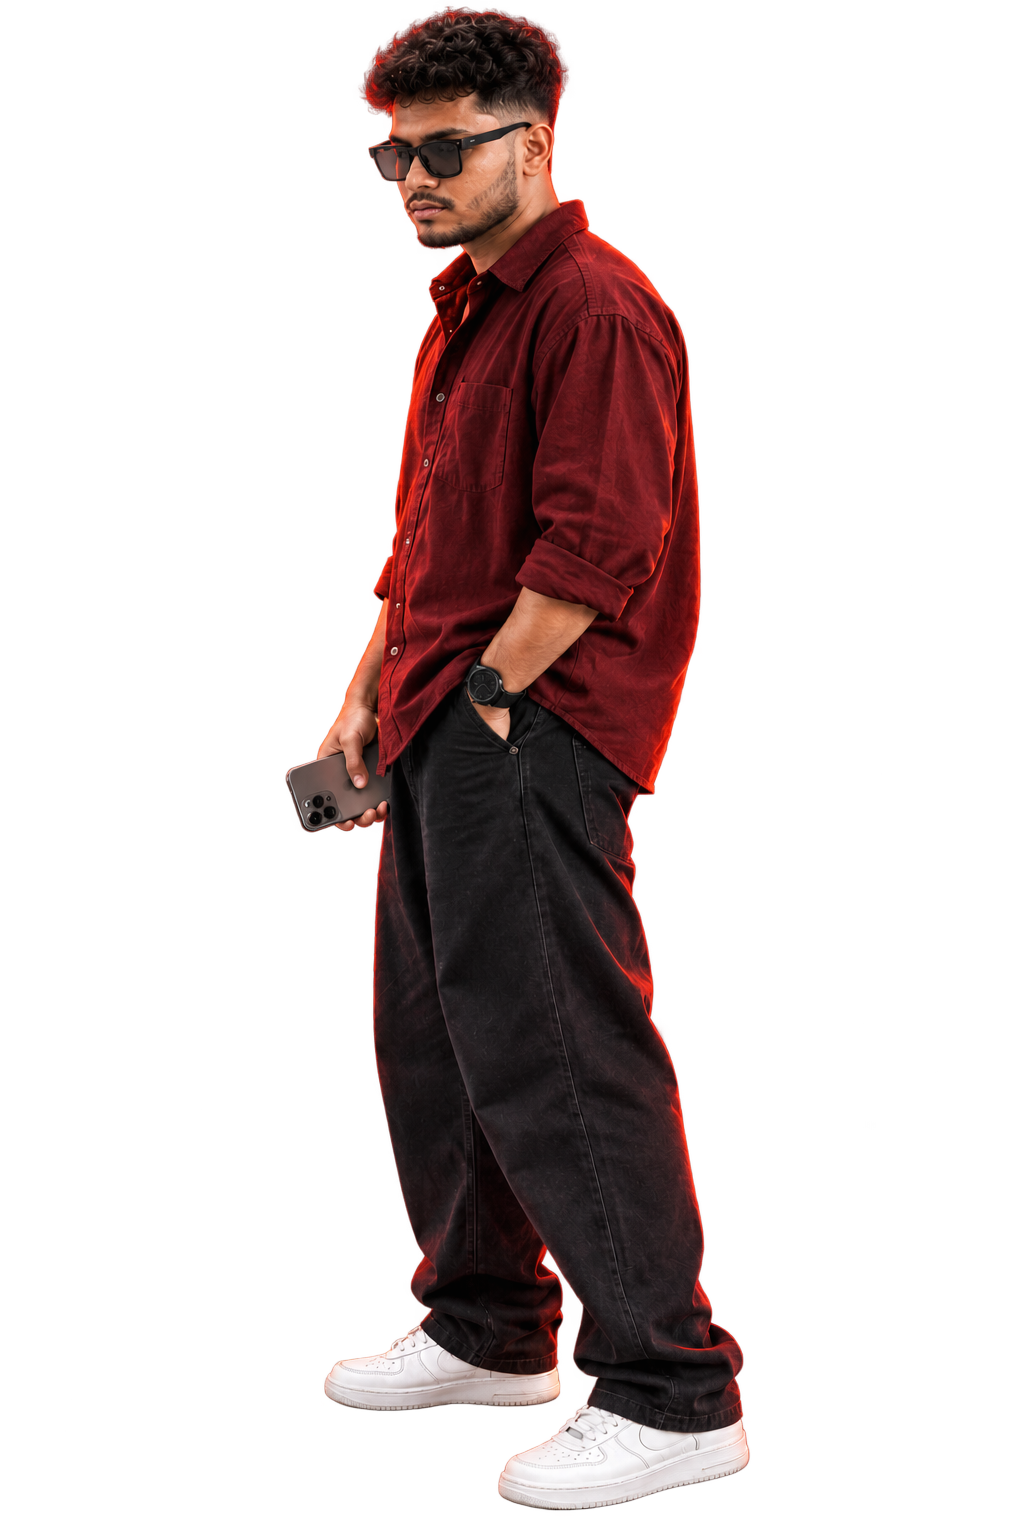
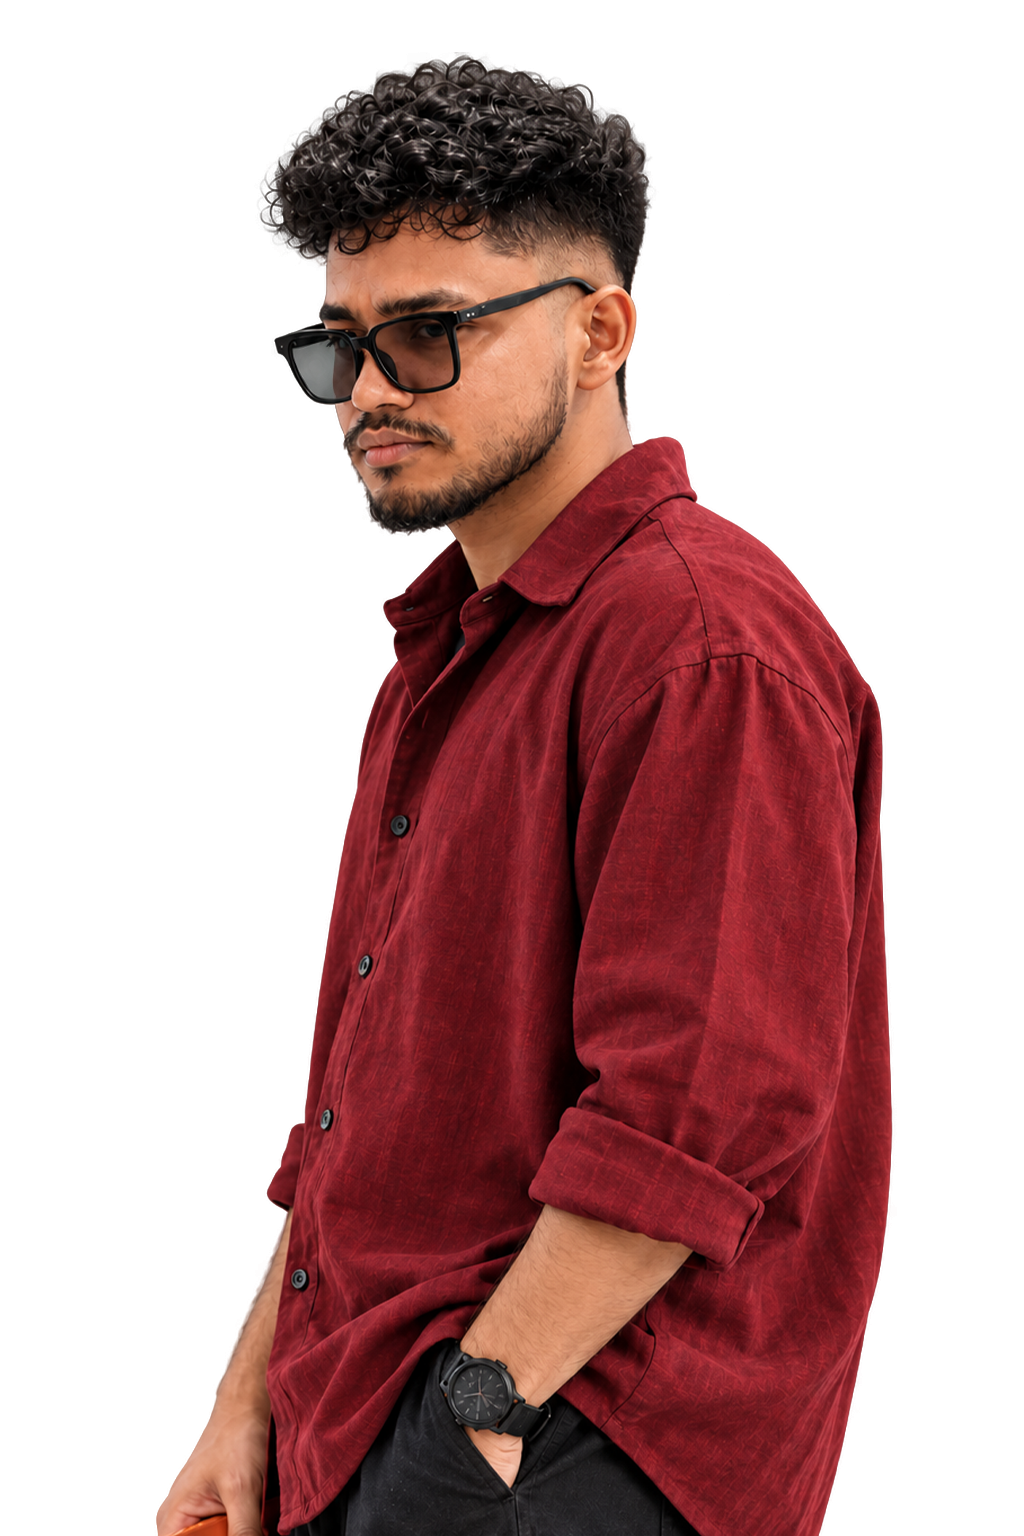
Add files via upload

diff --git a/about.html b/about.html
@@ -2,184 +2,183 @@
 <html lang="en">
 <head>
 <meta charset="utf-8">
-<meta name="viewport" content="width=device-width, initial-scale=1">
+<meta name="viewport" content="width=device-width,initial-scale=1">
 <title>About — Subhajit</title>
-<meta name="description" content="About Subhajit Das — graphic designer and motion designer.">
-<link rel="preconnect" href="https://fonts.googleapis.com">
-<link rel="preconnect" href="https://fonts.gstatic.com" crossorigin>
-<link href="https://fonts.googleapis.com/css2?family=DM+Sans:wght@400;500;600;700;800&family=Space+Grotesk:wght@400;500;600;700&display=swap" rel="stylesheet">
 <style>
-:root{--red:#e20b0b;--red2:#ff2a1a;--white:#fff;--muted:#d4d0d0}
 *{box-sizing:border-box}
-html,body{margin:0;width:100%;min-height:100%;background:#050505;color:#fff;font-family:"DM Sans",Arial,sans-serif}
-body{overflow-x:hidden}
-.about-page{
-  min-height:100svh;
-  width:100%;
+html,body{margin:0;width:100%;height:100%;overflow:hidden}
+body{
+  background:#030303;
+  color:#fff;
+  font-family:Arial,Helvetica,sans-serif;
+}
+.about{
   position:relative;
-  isolation:isolate;
+  width:100vw;
+  height:100vh;
+  min-height:650px;
   overflow:hidden;
-  background:#050505 url("about-background.png") center center/cover no-repeat;
+  background:#030303 url("about-background.png") center center/cover no-repeat;
 }
-.about-page:before{
-  content:"";position:absolute;inset:0;z-index:-1;
-  background:linear-gradient(90deg,rgba(0,0,0,.84) 0%,rgba(0,0,0,.66) 34%,rgba(0,0,0,.22) 60%,rgba(0,0,0,.04) 100%);
+.about:after{
+  content:"";
+  position:absolute;
+  inset:0;
+  pointer-events:none;
+  background:linear-gradient(90deg,rgba(0,0,0,.10) 0%,rgba(0,0,0,.05) 43%,rgba(0,0,0,.10) 100%);
 }
-.about-page:after{
-  content:"";position:absolute;inset:0;z-index:-1;pointer-events:none;
-  background:radial-gradient(circle at 30% 55%,rgba(226,11,11,.18),transparent 34%),
-             linear-gradient(180deg,rgba(0,0,0,.25),transparent 35%,rgba(0,0,0,.35));
-}
-.topbar{
-  position:absolute;top:0;left:0;right:0;height:88px;padding:0 5vw;
-  display:flex;align-items:center;justify-content:space-between;z-index:10;
-  border-bottom:1px solid rgba(255,255,255,.09);
-  background:linear-gradient(180deg,rgba(0,0,0,.46),transparent);
-}
-.brand{font-size:18px;font-weight:800;letter-spacing:.1em}.brand span{color:var(--red)}
-nav{display:flex;gap:30px;align-items:center}
-nav a{color:#fff;text-decoration:none;font-size:13px;font-weight:700;transition:.22s}
-nav a:hover,nav a.active{color:#ff4135;transform:translateY(-2px)}
-.talk{border:1px solid rgba(255,255,255,.6);border-radius:999px;padding:11px 17px;color:#fff;text-decoration:none;font-size:13px;font-weight:700}
-.talk span{color:#ff4135;margin-left:5px}
 .content{
-  min-height:100svh;width:min(1440px,100%);margin:auto;
-  display:grid;grid-template-columns:minmax(390px, .88fr) minmax(470px,1.12fr);
-  align-items:center;position:relative;padding:100px 5vw 50px;
+  position:relative;
+  z-index:3;
+  width:52%;
+  height:100%;
+  margin-left:48%;
+  padding:9vh 6vw 8vh 3vw;
+  display:flex;
+  flex-direction:column;
+  justify-content:center;
 }
-.copy{
-  position:relative;z-index:4;max-width:650px;
-  padding:25px 0 30px;
+.eyebrow{
+  color:#ef3b2d;
+  font-size:clamp(14px,1.2vw,21px);
+  font-weight:800;
+  letter-spacing:.13em;
+  margin:0 0 2.4vh;
+  text-transform:uppercase;
 }
-.eyebrow{margin:0 0 15px;color:#ff3b2e;font-size:13px;font-weight:800;letter-spacing:.22em}
-h1{font-family:"Space Grotesk",sans-serif;font-size:clamp(58px,7vw,110px);line-height:.86;letter-spacing:-.065em;margin:0 0 14px;font-weight:700}
-h1 .accent{color:var(--red)}
-.subhead{font-size:clamp(18px,2vw,27px);line-height:1.2;font-weight:700;margin:0 0 26px;color:#f5f3f3}
-.typed-area{min-height:285px;max-width:630px}
-.typed-line{font-size:17px;line-height:1.62;color:#eee;min-height:1.62em;margin:0 0 9px}
-.typed-line strong{color:#fff;font-weight:800}
-.cursor{display:inline-block;width:2px;height:1em;background:#ff2a1a;margin-left:3px;vertical-align:-.12em;animation:blink .7s step-end infinite}
+h1{
+  margin:0 0 1.2vh;
+  font-size:clamp(54px,6.2vw,105px);
+  line-height:.92;
+  letter-spacing:-.045em;
+  color:#fff;
+  font-weight:900;
+  text-shadow:0 4px 25px rgba(0,0,0,.45);
+}
+.subtitle{
+  margin:0 0 3vh;
+  color:#ef3b2d;
+  font-size:clamp(21px,2vw,34px);
+  line-height:1.1;
+  font-weight:800;
+}
+.typebox{
+  max-width:820px;
+  font-size:clamp(17px,1.42vw,24px);
+  line-height:1.55;
+  color:#f3f3f3;
+  text-shadow:0 2px 13px rgba(0,0,0,.9);
+}
+.type-line{margin:0 0 1.2vh;min-height:1.55em}
+.type-line strong{color:#fff;font-weight:800}
+.caret{
+  display:inline-block;
+  width:.08em;
+  height:1em;
+  margin-left:3px;
+  background:#ef3b2d;
+  vertical-align:-.12em;
+  animation:blink .7s step-end infinite;
+}
 @keyframes blink{50%{opacity:0}}
-.stats{display:flex;gap:18px;flex-wrap:wrap;margin-top:20px}
-.stat{border-left:2px solid var(--red);padding:8px 18px 8px 13px;background:rgba(0,0,0,.27);backdrop-filter:blur(5px)}
-.stat b{display:block;font-size:22px}.stat span{font-size:10px;letter-spacing:.1em;color:#bbb}
-.photo-side{
-  position:relative;height:min(86vh,850px);align-self:end;z-index:3;
-  display:flex;justify-content:flex-end;align-items:flex-end;
+.badge{
+  margin-top:3vh;
+  display:inline-flex;
+  align-items:center;
+  gap:20px;
+  width:max-content;
+  max-width:90%;
+  padding:16px 28px;
+  border:1px solid rgba(239,59,45,.65);
+  border-radius:999px;
+  background:rgba(0,0,0,.48);
+  backdrop-filter:blur(5px);
+  box-shadow:0 0 30px rgba(220,25,15,.16);
+  font-size:clamp(18px,1.55vw,27px);
 }
+.badge .number{color:#ef3b2d;font-weight:900}
 .photo{
-  height:100%;max-height:900px;width:auto;max-width:100%;
-  object-fit:contain;object-position:center bottom;
-  filter:drop-shadow(0 0 25px rgba(255,0,0,.2));
-  transform:translate3d(0,0,0);
-  animation:floatPhoto 5.5s ease-in-out infinite;
+  position:absolute;
+  z-index:4;
+  left:0;
+  right:auto;
+  bottom:-7vh;
+  width:min(55vw,900px);
+  height:108vh;
+  object-fit:contain;
+  object-position:center bottom;
+  filter:drop-shadow(-14px 15px 26px rgba(0,0,0,.72));
+  transform-origin:center bottom;
+  animation:arrive 1.1s cubic-bezier(.2,.8,.2,1) both;
 }
-@keyframes floatPhoto{0%,100%{transform:translateY(0)}50%{transform:translateY(-9px)}}
-.photo-glow{
-  position:absolute;width:52%;height:24%;right:13%;bottom:5%;
-  background:rgba(255,0,0,.24);filter:blur(55px);border-radius:50%;z-index:-1;
+@keyframes arrive{
+  from{opacity:0;transform:translateX(80px) scale(.88)}
+  to{opacity:1;transform:translateX(0) scale(1)}
 }
-.corner{position:absolute;bottom:30px;left:5vw;font-size:10px;letter-spacing:.16em;color:#a9a4a4;z-index:5}
-.scroll{position:absolute;right:5vw;bottom:30px;color:#aaa;font-size:10px;letter-spacing:.14em;z-index:5}
-@media(max-width:980px){
-  .content{grid-template-columns:1fr;min-height:auto;padding:120px 7vw 0}
-  .copy{max-width:720px;padding-top:20px}
-  .photo-side{height:620px;margin-top:-20px;justify-content:center}
-  .photo{max-height:650px}
-  .corner{left:7vw}.scroll{right:7vw}
-  .topbar{padding:0 7vw}
-  nav{gap:18px}
+.back{
+  position:absolute;
+  z-index:6;
+  left:7vw;
+  bottom:4vh;
+  color:#fff;
+  text-decoration:none;
+  font-size:14px;
+  font-weight:700;
+  padding:10px 15px;
+  border:1px solid rgba(255,255,255,.35);
+  border-radius:999px;
+  background:rgba(0,0,0,.3);
+  backdrop-filter:blur(5px);
+  transition:.25s;
 }
-@media(max-width:650px){
-  .topbar{height:74px;padding:0 20px}.brand{font-size:15px}
-  nav{display:none}.talk{padding:9px 13px}
-  .content{padding:100px 20px 0}
-  h1{font-size:58px}.subhead{font-size:18px}.typed-line{font-size:15px}
-  .typed-area{min-height:330px}.stats{gap:9px}.stat{padding-right:12px}
-  .photo-side{height:520px;margin-top:5px}
-  .photo{height:100%;max-width:110vw}
-  .corner,.scroll{display:none}
+.back:hover{transform:translateX(-3px);border-color:#ef3b2d;color:#ef3b2d}
+
+@media(max-width:900px){
+  html,body{overflow:auto}
+  .about{height:auto;min-height:100vh;padding-bottom:40px;background-position:center}
+  .content{width:100%;height:auto;min-height:72vh;padding:9vh 7vw 0;justify-content:flex-start;background:linear-gradient(180deg,rgba(0,0,0,.55),rgba(0,0,0,.12))}
+  h1{font-size:clamp(50px,12vw,82px)}
+  .typebox{font-size:17px;max-width:720px}
+  .content{margin-left:0;width:100%}
+  .photo{position:relative;left:auto;right:auto;bottom:auto;display:block;margin:-2vh auto 0;width:min(86vw,610px);height:auto;max-height:75vh;object-fit:contain}
+  .back{position:relative;left:auto;bottom:auto;display:inline-block;margin:20px 7vw 0}
 }
 </style>
 </head>
 <body>
-<div class="about-page">
-  <header class="topbar">
-    <a class="brand" href="index.html">SUBHAJIT<span>•</span></a>
-    <nav aria-label="Main navigation">
-      <a class="active" href="about.html">About</a>
-      <a href="what-i-do.html">What I Do</a>
-      <a href="index.html#resume">Resume</a>
-      <a href="index.html#work">Work</a>
-    </nav>
-    <a class="talk" href="index.html#contact">Let's talk <span>↗</span></a>
-  </header>
-
-  <main class="content">
-    <section class="copy" aria-label="About Subhajit">
-      <p class="eyebrow">CREATIVE PORTFOLIO — ABOUT</p>
-      <h1>Meet <span class="accent">Subhajit.</span></h1>
-      <p class="subhead">Designing with Purpose, Passion &amp; Experience</p>
-
-      <div class="typed-area" aria-live="polite">
-        <p class="typed-line" id="line1"></p>
-        <p class="typed-line" id="line2"></p>
-        <p class="typed-line" id="line3"></p>
-      </div>
-
-      <div class="stats">
-        <div class="stat"><b>6+</b><span>YEARS EXPERIENCE</span></div>
-        <div class="stat"><b>50+</b><span>BRANDS</span></div>
-        <div class="stat"><b>6000+</b><span>DESIGNS</span></div>
-        <div class="stat"><b>1000+</b><span>VIDEOS</span></div>
-      </div>
-    </section>
-
-    <section class="photo-side" aria-label="Subhajit portrait">
-      <div class="photo-glow"></div>
-      <img class="photo" src="about-photo.png" alt="Subhajit Das">
-    </section>
-  </main>
-
-  <div class="corner">GRAPHIC DESIGNER • MOTION DESIGNER</div>
-  <div class="scroll">SCROLL / EXPLORE ↘</div>
-</div>
-
+<main class="about">
+  <section class="content">
+    <p class="eyebrow">Creative Portfolio — Presentation</p>
+    <h1>Meet The Designer</h1>
+    <p class="subtitle">Designing with Purpose, Passion &amp; Experience</p>
+    <div class="typebox" aria-live="polite">
+      <p class="type-line" id="line1"></p>
+      <p class="type-line" id="line2"></p>
+      <p class="type-line" id="line3"></p>
+    </div>
+    <div class="badge"><span>🤝</span><span>Worked with</span><span class="number">50+ Brands</span></div>
+  </section>
+  <img class="photo" src="about-photo.png" alt="Subhajit Das">
+  <a class="back" href="index.html">← Back to Home</a>
+</main>
 <script>
 const lines = [
-  '<strong>Hey, myself Subhajit Das.</strong> I’m a 26-year-old dedicated graphic designer with over <strong>6 years of professional experience.</strong>',
-  'After completing my schooling in 2017, <strong>financial limitations</strong> prevented me from finishing college — but they never limited my ambition.',
-  'Since then, I’ve built my career through self-learning, <strong>continuous practice</strong>, and real client projects. I’ve <strong>collaborated with 50+ brands</strong>, creating clean, effective visuals that communicate ideas and drive engagement.'
+  'Hey myself Subhajit Das, I’m a 26-year-old dedicated graphic designer with over 6 years of professional experience. After completing my schooling in 2017, financial limitations prevented me from finishing college—but they never limited my ambition.',
+  'Since then, I’ve built my career through self-learning, continuous practice, and real client projects. I’ve collaborated with 50+ brands, helping them strengthen their visual identity and stand out in competitive markets.',
+  'My work blends creativity with clarity. I focus on clean, effective design that captures attention, communicates ideas, and drives engagement. I’m always learning, evolving, and pushing my skills to deliver better results every day.'
 ];
-
-const targets = [
-  document.getElementById('line1'),
-  document.getElementById('line2'),
-  document.getElementById('line3')
-];
-
-function stripHTML(s){ return s.replace(/<[^>]*>/g,''); }
-function renderTyped(el, html, count){
-  const plain = stripHTML(html);
-  let partial = plain.slice(0,count);
-  // Keep the typing effect readable while preserving the final formatted text.
-  el.textContent = partial;
-}
-async function typeLine(el, html, speed){
-  const plain = stripHTML(html);
-  for(let i=1;i<=plain.length;i++){
-    renderTyped(el,html,i);
-    await new Promise(r=>setTimeout(r,speed));
+const els=[line1,line2,line3];
+let i=0,c=0;
+function typeNext(){
+  if(i>=lines.length){ return; }
+  els[i].textContent=lines[i].slice(0,c++);
+  if(c<=lines[i].length){
+    setTimeout(typeNext, 18);
+  }else{
+    i++;c=0;setTimeout(typeNext, 350);
   }
-  el.innerHTML = html;
-  const c=document.createElement('span'); c.className='cursor'; el.appendChild(c);
 }
-(async()=>{
-  for(let i=0;i<lines.length;i++){
-    await typeLine(targets[i],lines[i],18);
-    await new Promise(r=>setTimeout(r,260));
-  }
-})();
+typeNext();
 </script>
 </body>
 </html>
